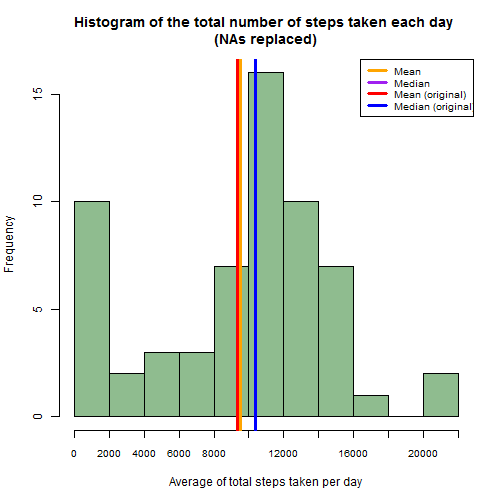
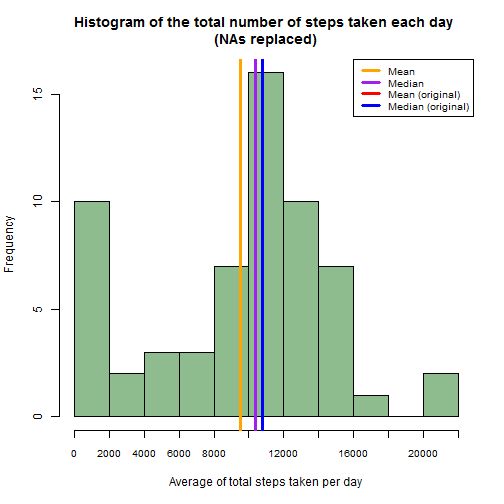
Change from tapply to aggregate

Changed region(s): [[0.506, 0.119, 0.5357, 0.8631], [0.4464, 0.119, 0.4762, 0.8631], [0.7143, 0.119, 0.9524, 0.2381]]

diff --git a/PA1_template.html b/PA1_template.html
@@ -238,63 +238,61 @@ if (!file.exists(&quot;activiy.csv&quot;) &amp; file.exists(&quot;activity.zip&q
 
 <p>##What is the mean total number of steps taken per day?</p>
 
-<p>We will start by calculating the total number of steps taken per day. First we use <code>tapply</code> to sum the number of steps per day, then we convert the array to a data frame to be able to manipulate the data more easily. There is no need to print the result since the assignment does not ask for us to report it.</p>
+<p>We will calculate the total number of steps taken per day using <code>aggregate</code>. There is no need to print the result since the assignment does not ask for us to report it.</p>
 
-<pre><code class="r">steptotal &lt;- tapply(stepdata$steps, stepdata$date, sum, na.rm = TRUE)
-steptotal &lt;- data.frame(date = names(steptotal), total = steptotal, row.names = NULL)
+<pre><code class="r">steptotal &lt;- aggregate(steps ~ date, stepdata, sum, na.rm = TRUE)
 </code></pre>
 
 <p>Having calculated the totals, we can now build the histogram. We will also include the lines for the mean (red) and median (blue).</p>
 
-<pre><code class="r">hist(steptotal$total, breaks = 11, xaxt = &quot;n&quot;, col = &quot;darkseagreen&quot;, xlab = &quot;Average of total steps taken each day&quot;, main =paste(&quot;Histogram of the total number of steps taken each day&quot;, &quot;\n(NAs removed)&quot;))
+<pre><code class="r">hist(steptotal$steps, breaks = 11, xaxt = &quot;n&quot;, col = &quot;darkseagreen&quot;, xlab = &quot;Average of total steps taken each day&quot;, main =paste(&quot;Histogram of the total number of steps taken each day&quot;, &quot;\n(NAs removed)&quot;))
 axis(1, at = seq(0, 22000, 2000), cex.axis = 0.8)
-abline(v = mean(steptotal$total), col = &quot;red&quot;, lwd = 3)
-abline(v = median(steptotal$total), col = &quot;blue&quot;, lwd = 3)
+abline(v = mean(steptotal$steps), col = &quot;red&quot;, lwd = 3)
+abline(v = median(steptotal$steps), col = &quot;blue&quot;, lwd = 3)
 legend(&quot;topright&quot;, lwd = 3, col = c(&quot;red&quot;, &quot;blue&quot;), legend = c(&quot;Mean&quot;, &quot;Median&quot;), cex = 0.8)
 </code></pre>
 
[2 lines of base64/hex data omitted]
 
-<p>We can see that the mean is smaller than the median and that they&#39;re both close to 10 000 steps per day.</p>
+<p>We can see that the mean and median are very close to each other, which is why we can only see one of them in the histogram.</p>
 
-<pre><code class="r">mean(steptotal$total)
+<pre><code class="r">mean(steptotal$steps)
 </code></pre>
 
-<pre><code>## [1] 9354.23
+<pre><code>## [1] 10766.19
 </code></pre>
 
-<pre><code class="r">median(steptotal$total)
+<pre><code class="r">median(steptotal$steps)
 </code></pre>
 
-<pre><code>## [1] 10395
+<pre><code>## [1] 10765
 </code></pre>
 
 <p><br />  </p>
 
 <p>##What is the average daily activity pattern?</p>
 
-<p>We start by calculating the average of steps taken on a 5 minute interval across all days. Then we convert the array to a data frame to allow for better data manipulation.</p>
+<p>Calculating the average of steps taken on a 5 minute interval across all days:</p>
 
-<pre><code class="r">stepint &lt;- tapply(stepdata$steps, stepdata$interval, mean, na.rm = TRUE)
-stepint &lt;- data.frame(interval = as.integer(as.character(names(stepint))), mean = stepint, row.names = NULL)
+<pre><code class="r">stepint &lt;- aggregate(steps ~ interval, stepdata, mean, na.rm = TRUE)
 </code></pre>
 
 <p>We can now plot the average number of steps taken in each 5 minute interval:</p>
 
-<pre><code class="r">plot(stepint$interval, stepint$mean, type =&quot;l&quot;, lwd =2, col = &quot;darkcyan&quot;, xaxt = &quot;n&quot;, xlab = &quot;5-minute Interval&quot;, ylab = &quot;Average number of steps taken&quot;, main=paste(&quot;Average number of steps taken in each 5-minute interval&quot;, &quot;\n(averaged across all days)&quot;), bty = &quot;n&quot;)
+<pre><code class="r">plot(stepint$interval, stepint$steps, type =&quot;l&quot;, lwd =2, col = &quot;darkcyan&quot;, xaxt = &quot;n&quot;, xlab = &quot;5-minute Interval&quot;, ylab = &quot;Average number of steps taken&quot;, main=paste(&quot;Average number of steps taken in each 5-minute interval&quot;, &quot;\n(averaged across all days)&quot;), bty = &quot;n&quot;)
 axis(1, at = seq(0, 2355, 250), cex.axis= 0.8)
-abline(v = stepint[stepint$mean == max(stepint$mean), &quot;interval&quot;], col = &quot;orange&quot;, lwd =2, lty = 3)
+abline(v = stepint[stepint$steps == max(stepint$steps), &quot;interval&quot;], col = &quot;orange&quot;, lwd =2, lty = 3)
 legend(&quot;topright&quot;, lwd = 2, col =&quot;orange&quot;, legend = c(&quot;Maximum&quot;), cex = 0.8, lty = 3)
 </code></pre>
 
[2 lines of base64/hex data omitted]
 
 <p>We can see where the maximum is on the plot. To get the exact interval and value of the mean for that interval:</p>
 
-<pre><code class="r">stepint[stepint$mean == max(stepint$mean),]
+<pre><code class="r">stepint[stepint$steps == max(stepint$steps),]
 </code></pre>
 
-<pre><code>##     interval     mean
+<pre><code>##     interval    steps
 ## 104      835 206.1698
 </code></pre>
 
@@ -311,10 +309,10 @@ Number of missing values in the data set:</p>
 <pre><code>## [1] 2304
 </code></pre>
 
-<p>To fill in the missing values, we&#39;ll use the median of the respective 5-minute interval. The first step is to calculate the median for each interval using <code>tapply</code>, and then converting the array to a data frame.</p>
+<p>To fill in the missing values, we&#39;ll use the median of the respective 5-minute interval. We can start by calculating the median, and we&#39;ll change the name of the &ldquo;steps&rdquo; column to &ldquo;median&rdquo;.</p>
 
-<pre><code class="r">stepmedian &lt;- tapply(stepdata$steps, stepdata$interval, median, na.rm = TRUE)
-stepmedian &lt;- data.frame(interval = names(stepmedian), median = stepmedian, row.names = NULL)
+<pre><code class="r">stepmedian &lt;- aggregate(steps ~ interval, stepdata, median, na.rm = TRUE)
+names(stepmedian)[2] &lt;- &quot;median&quot;
 </code></pre>
 
 <p>We&#39;ll copy the original data set and merge the new one with the data frame containing the median for each interval. Since the <code>merge</code> function will order the rows by interval, we&#39;ll also order the new data set to match the original order.</p>
@@ -363,64 +361,52 @@ head(newstep)
 
 <p>We&#39;ll now calculate the total number of steps taken each day:</p>
 
-<pre><code class="r">newsteptotal &lt;- tapply(newstep$steps, newstep$date, sum)
-newsteptotal &lt;- data.frame(date = names(newsteptotal), total = newsteptotal, row.names = NULL)
+<pre><code class="r">newsteptotal &lt;- aggregate(steps ~ date, newstep, sum, na.rm = TRUE)
 </code></pre>
 
 <p>Plotting the histogram of the total number of steps taken per day, including the mean (orange), median (purple), and the mean and median from the original data set (red and blue):</p>
 
-<pre><code class="r">hist(newsteptotal$total, breaks = 11, xaxt = &quot;n&quot;, col = &quot;darkseagreen&quot;, xlab = &quot;Average of total steps taken per day&quot;, main =paste(&quot;Histogram of the total number of steps taken each day&quot;, &quot;\n(NAs replaced)&quot;))
+<pre><code class="r">hist(newsteptotal$steps, breaks = 11, xaxt = &quot;n&quot;, col = &quot;darkseagreen&quot;, xlab = &quot;Average of total steps taken per day&quot;, main =paste(&quot;Histogram of the total number of steps taken each day&quot;, &quot;\n(NAs replaced)&quot;))
 axis(1, at = seq(0, 22000, 2000), cex.axis = 0.8)
-abline(v = mean(newsteptotal$total), col = &quot;orange&quot;, lwd = 3)
-abline(v = median(newsteptotal$total), col = &quot;purple&quot;, lwd = 3)
-abline(v = mean(steptotal$total), col = &quot;red&quot;, lwd = 3)
-abline(v = median(steptotal$total), col = &quot;blue&quot;, lwd = 3)
+abline(v = mean(newsteptotal$steps), col = &quot;orange&quot;, lwd = 3)
+abline(v = median(newsteptotal$steps), col = &quot;purple&quot;, lwd = 3)
+abline(v = mean(steptotal$steps), col = &quot;red&quot;, lwd = 3)
+abline(v = median(steptotal$steps), col = &quot;blue&quot;, lwd = 3)
 legend(&quot;topright&quot;, lwd = 3, col = c(&quot;orange&quot;, &quot;purple&quot;, &quot;red&quot;, &quot;blue&quot;), legend = c(&quot;Mean&quot;, &quot;Median&quot;, &quot;Mean (original)&quot;, &quot;Median (original)&quot;), cex = 0.8)
 </code></pre>
 
[2 lines of base64/hex data omitted]
 
-<p>Notice the medians overlap, because we used the median of the 5-minute interval to fill in the NAs.
-Calculating both original and new mean:</p>
+<p>Calculating both original and new mean:</p>
 
-<pre><code class="r">mean(steptotal$total)
+<pre><code class="r">mean(steptotal$steps)
 </code></pre>
 
-<pre><code>## [1] 9354.23
+<pre><code>## [1] 10766.19
 </code></pre>
 
-<pre><code class="r">mean(newsteptotal$total)
+<pre><code class="r">mean(newsteptotal$steps)
 </code></pre>
 
 <pre><code>## [1] 9503.869
 </code></pre>
 
-<p>The new mean is slightly higher because the NAs values were replaced with the median values for each interval. Assuming the median of each interval follows the same pattern of the median for the total number of steps per day, then the median of each interval is higher than the respective mean (see the mean and median of total steps per day calculated previously for the original data set). This means that the NAs were replaced with values higher than the mean, which would in turn increase the average of the total number of steps taken per day.</p>
+<p>Calculating both original and new median:</p>
 
-<p>As we can see, the median remains the same:</p>
+<pre><code class="r">median(steptotal$steps)
+</code></pre>
 
-<pre><code class="r">median(steptotal$total)
+<pre><code>## [1] 10765
+</code></pre>
+
+<pre><code class="r">median(newsteptotal$steps)
 </code></pre>
 
 <pre><code>## [1] 10395
 </code></pre>
 
-<pre><code class="r">median(newsteptotal$total)
-</code></pre>
-
-<pre><code>## [1] 10395
-</code></pre>
-
-<p>Imputing missing data with this particular method slightly increased the mean of total steps taken each day, but the median remained the same. Overall, the change does not seem very significant:</p>
-
-<pre><code class="r">percent &lt;- (mean(newsteptotal$total) - mean(steptotal$total)) / mean(steptotal$total)
-percent
-</code></pre>
-
-<pre><code>## [1] 0.01599697
-</code></pre>
-
-<p>As we can see, the mean only increased by 1.6%.
+<p>Both the mean and median decreased a bit, but the mean decreased more.
+This decrease is likely because there were many NA values that weren&#39;t included in the calculation of the mean and that were now replaced by low values or even zeros, lowering both the overall mean and median.
 <br /><br/>
 <br />  </p>
 

diff --git a/PA1_template.md b/PA1_template.md
@@ -44,60 +44,58 @@ Sys.setlocale("LC_TIME", "C")
 
 ##What is the mean total number of steps taken per day?
 
-We will start by calculating the total number of steps taken per day. First we use ` tapply` to sum the number of steps per day, then we convert the array to a data frame to be able to manipulate the data more easily. There is no need to print the result since the assignment does not ask for us to report it.
+We will calculate the total number of steps taken per day using `aggregate`. There is no need to print the result since the assignment does not ask for us to report it.
 
 ```r
-steptotal <- tapply(stepdata$steps, stepdata$date, sum, na.rm = TRUE)
-steptotal <- data.frame(date = names(steptotal), total = steptotal, row.names = NULL)
+steptotal <- aggregate(steps ~ date, stepdata, sum, na.rm = TRUE)
 ```
  
 Having calculated the totals, we can now build the histogram. We will also include the lines for the mean (red) and median (blue).
 
 ```r
-hist(steptotal$total, breaks = 11, xaxt = "n", col = "darkseagreen", xlab = "Average of total steps taken each day", main =paste("Histogram of the total number of steps taken each day", "\n(NAs removed)"))
+hist(steptotal$steps, breaks = 11, xaxt = "n", col = "darkseagreen", xlab = "Average of total steps taken each day", main =paste("Histogram of the total number of steps taken each day", "\n(NAs removed)"))
 axis(1, at = seq(0, 22000, 2000), cex.axis = 0.8)
-abline(v = mean(steptotal$total), col = "red", lwd = 3)
-abline(v = median(steptotal$total), col = "blue", lwd = 3)
+abline(v = mean(steptotal$steps), col = "red", lwd = 3)
+abline(v = median(steptotal$steps), col = "blue", lwd = 3)
 legend("topright", lwd = 3, col = c("red", "blue"), legend = c("Mean", "Median"), cex = 0.8)
 ```
 
 ![plot of chunk histsteptotal](figure/histsteptotal-1.png) 
 
-We can see that the mean is smaller than the median and that they're both close to 10 000 steps per day.
+We can see that the mean and median are very close to each other, which is why we can only see one of them in the histogram.
 
 ```r
-mean(steptotal$total)
+mean(steptotal$steps)
 ```
 
 ```
-## [1] 9354.23
+## [1] 10766.19
 ```
 
 ```r
-median(steptotal$total)
+median(steptotal$steps)
 ```
 
 ```
-## [1] 10395
+## [1] 10765
 ```
 <br />  
 
 
 ##What is the average daily activity pattern?
 
-We start by calculating the average of steps taken on a 5 minute interval across all days. Then we convert the array to a data frame to allow for better data manipulation.
+Calculating the average of steps taken on a 5 minute interval across all days:
 
 ```r
-stepint <- tapply(stepdata$steps, stepdata$interval, mean, na.rm = TRUE)
-stepint <- data.frame(interval = as.integer(as.character(names(stepint))), mean = stepint, row.names = NULL)
+stepint <- aggregate(steps ~ interval, stepdata, mean, na.rm = TRUE)
 ```
 
 We can now plot the average number of steps taken in each 5 minute interval:
 
 ```r
-plot(stepint$interval, stepint$mean, type ="l", lwd =2, col = "darkcyan", xaxt = "n", xlab = "5-minute Interval", ylab = "Average number of steps taken", main=paste("Average number of steps taken in each 5-minute interval", "\n(averaged across all days)"), bty = "n")
+plot(stepint$interval, stepint$steps, type ="l", lwd =2, col = "darkcyan", xaxt = "n", xlab = "5-minute Interval", ylab = "Average number of steps taken", main=paste("Average number of steps taken in each 5-minute interval", "\n(averaged across all days)"), bty = "n")
 axis(1, at = seq(0, 2355, 250), cex.axis= 0.8)
-abline(v = stepint[stepint$mean == max(stepint$mean), "interval"], col = "orange", lwd =2, lty = 3)
+abline(v = stepint[stepint$steps == max(stepint$steps), "interval"], col = "orange", lwd =2, lty = 3)
 legend("topright", lwd = 2, col ="orange", legend = c("Maximum"), cex = 0.8, lty = 3)
 ```
 
@@ -106,11 +104,11 @@ legend("topright", lwd = 2, col ="orange", legend = c("Maximum"), cex = 0.8, lty
 We can see where the maximum is on the plot. To get the exact interval and value of the mean for that interval:
 
 ```r
-stepint[stepint$mean == max(stepint$mean),]
+stepint[stepint$steps == max(stepint$steps),]
 ```
 
 ```
-##     interval     mean
+##     interval    steps
 ## 104      835 206.1698
 ```
 The 5-minute interval with the maximum number of steps is the 835 interval.
@@ -129,11 +127,11 @@ length(which(is.na(stepdata$steps)))
 ## [1] 2304
 ```
 
-To fill in the missing values, we'll use the median of the respective 5-minute interval. The first step is to calculate the median for each interval using `tapply`, and then converting the array to a data frame.
+To fill in the missing values, we'll use the median of the respective 5-minute interval. We can start by calculating the median, and we'll change the name of the "steps" column to "median".
 
 ```r
-stepmedian <- tapply(stepdata$steps, stepdata$interval, median, na.rm = TRUE)
-stepmedian <- data.frame(interval = names(stepmedian), median = stepmedian, row.names = NULL)
+stepmedian <- aggregate(steps ~ interval, stepdata, median, na.rm = TRUE)
+names(stepmedian)[2] <- "median"
 ```
 
 We'll copy the original data set and merge the new one with the data frame containing the median for each interval. Since the `merge` function will order the rows by interval, we'll also order the new data set to match the original order.
@@ -187,73 +185,59 @@ newstep <- newstep[, c(2, 3, 1)]
 We'll now calculate the total number of steps taken each day:
 
 ```r
-newsteptotal <- tapply(newstep$steps, newstep$date, sum)
-newsteptotal <- data.frame(date = names(newsteptotal), total = newsteptotal, row.names = NULL)
+newsteptotal <- aggregate(steps ~ date, newstep, sum, na.rm = TRUE)
 ```
 
 Plotting the histogram of the total number of steps taken per day, including the mean (orange), median (purple), and the mean and median from the original data set (red and blue):
 
 ```r
-hist(newsteptotal$total, breaks = 11, xaxt = "n", col = "darkseagreen", xlab = "Average of total steps taken per day", main =paste("Histogram of the total number of steps taken each day", "\n(NAs replaced)"))
+hist(newsteptotal$steps, breaks = 11, xaxt = "n", col = "darkseagreen", xlab = "Average of total steps taken per day", main =paste("Histogram of the total number of steps taken each day", "\n(NAs replaced)"))
 axis(1, at = seq(0, 22000, 2000), cex.axis = 0.8)
-abline(v = mean(newsteptotal$total), col = "orange", lwd = 3)
-abline(v = median(newsteptotal$total), col = "purple", lwd = 3)
-abline(v = mean(steptotal$total), col = "red", lwd = 3)
-abline(v = median(steptotal$total), col = "blue", lwd = 3)
+abline(v = mean(newsteptotal$steps), col = "orange", lwd = 3)
+abline(v = median(newsteptotal$steps), col = "purple", lwd = 3)
+abline(v = mean(steptotal$steps), col = "red", lwd = 3)
+abline(v = median(steptotal$steps), col = "blue", lwd = 3)
 legend("topright", lwd = 3, col = c("orange", "purple", "red", "blue"), legend = c("Mean", "Median", "Mean (original)", "Median (original)"), cex = 0.8)
 ```
 
 ![plot of chunk newhist](figure/newhist-1.png) 
 
-Notice the medians overlap, because we used the median of the 5-minute interval to fill in the NAs.
 Calculating both original and new mean:
 
 ```r
-mean(steptotal$total)
+mean(steptotal$steps)
 ```
 
 ```
-## [1] 9354.23
+## [1] 10766.19
 ```
 
 ```r
-mean(newsteptotal$total)
+mean(newsteptotal$steps)
 ```
 
 ```
 ## [1] 9503.869
 ```
-The new mean is slightly higher because the NAs values were replaced with the median values for each interval. Assuming the median of each interval follows the same pattern of the median for the total number of steps per day, then the median of each interval is higher than the respective mean (see the mean and median of total steps per day calculated previously for the original data set). This means that the NAs were replaced with values higher than the mean, which would in turn increase the average of the total number of steps taken per day.
-
-As we can see, the median remains the same:
+Calculating both original and new median:
 
 ```r
-median(steptotal$total)
+median(steptotal$steps)
+```
+
+```
+## [1] 10765
+```
+
+```r
+median(newsteptotal$steps)
 ```
 
 ```
 ## [1] 10395
 ```
-
-```r
-median(newsteptotal$total)
-```
-
-```
-## [1] 10395
-```
-
-Imputing missing data with this particular method slightly increased the mean of total steps taken each day, but the median remained the same. Overall, the change does not seem very significant:
-
-```r
-percent <- (mean(newsteptotal$total) - mean(steptotal$total)) / mean(steptotal$total)
-percent
-```
-
-```
-## [1] 0.01599697
-```
-As we can see, the mean only increased by 1.6%.
+Both the mean and median decreased a bit, but the mean decreased more.
+This decrease is likely because there were many NA values that weren't included in the calculation of the mean and that were now replaced by low values or even zeros, lowering both the overall mean and median.
 <br />  
 <br />  
 
